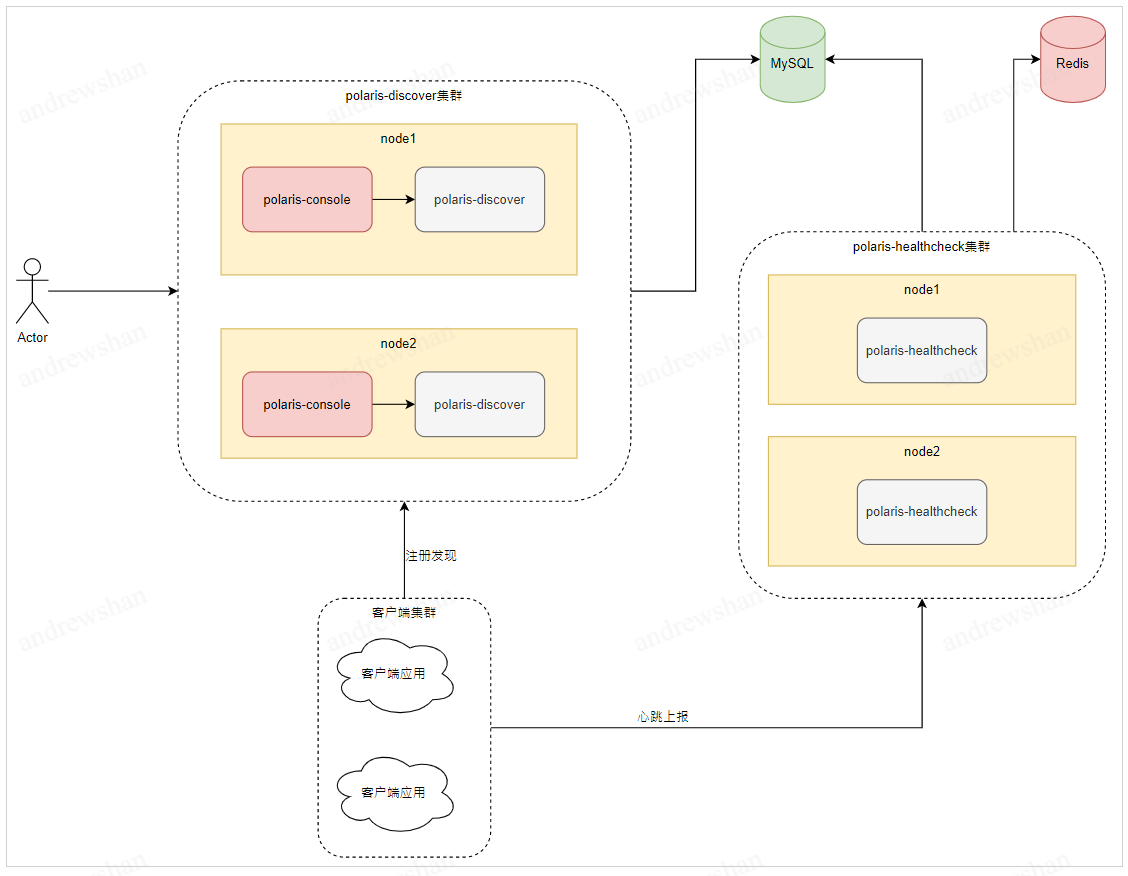
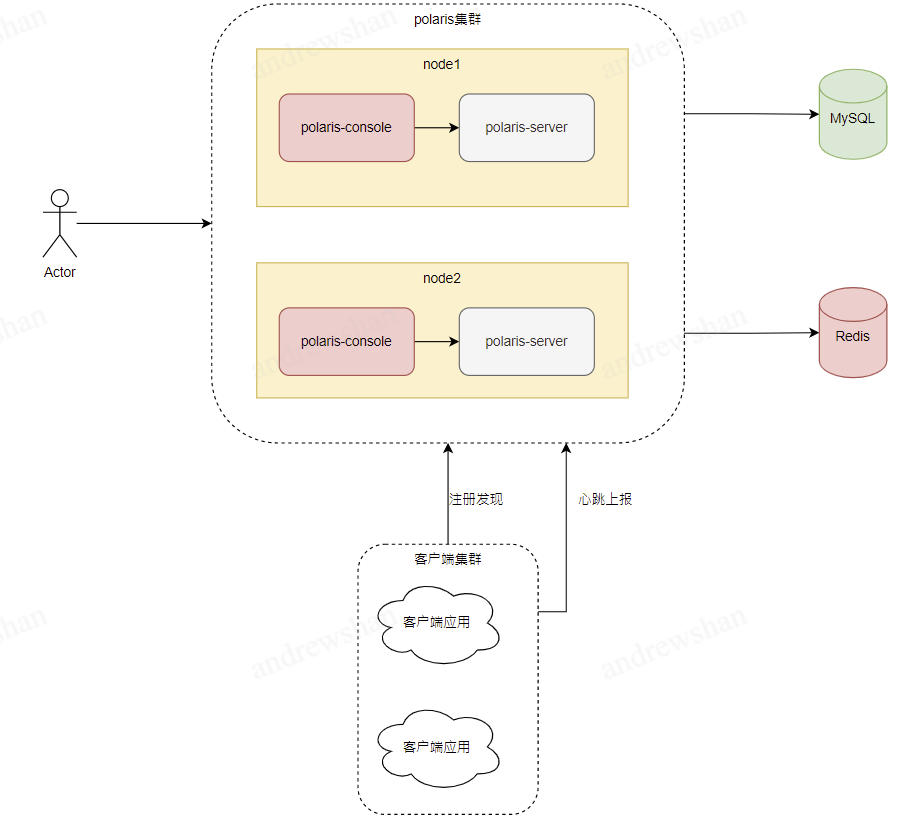
feat: add healthcheck and monitor install scripts

diff --git a/docs/zh/doc/快速入门/集群版安装.md b/docs/zh/doc/快速入门/集群版安装.md
@@ -4,9 +4,9 @@
 
 | 类型     | 组件                               | 最小生产集群 | 第三方依赖                           | 功能说明           |
 | -------- | ---------------------------------- | ------------ | ------------------------------------ | ------------------ |
-| 核心(必选)     | polaris-console,  polaris-discover | 2*VM/POD     | MySQL 5.7                            | 服务注册，服务发现 |
-| 健康检查(可选) | polaris-healthcheck                | 2*VM/POD     | Redis 5.0                            | 心跳上报           |
-| 可观察性(可选) | -                                  | 2*VM/POD     | Prometheus 2.28.0, PushGateway 1.4.1 | 客户端监控上报     |
+| 核心(必选)     | polaris-console,  polaris-discover | 2*VM/4*POD   | MySQL 5.7                            | 服务注册，服务发现 |
+| 健康检查(可选) | polaris-healthcheck                | 2*VM/4*POD   | Redis 5.0                            | 心跳上报           |
+| 可观察性(可选) | -                                  | 4*VM/8*POD   | Prometheus 2.28.0, PushGateway 1.4.1 | 客户端监控上报     |
 
 
 ## 核心功能安装
@@ -15,7 +15,7 @@
 
 ![核心组网](图片\集群版安装\核心组网.png)
 
-为保证容灾性，需要2节点（VM/POD），建议每台机器上**同时部署polaris-discover与polaris-console**。
+为保证容灾性，需要至少2节点部署，建议每台机器上**同时部署polaris-discover与polaris-console**。
 
 ### 初始数据导入
 
@@ -32,7 +32,7 @@ mysql -u $db_user -p $db_pwd -h $db_host < store/defaultStore/polaris_server.sql
 
 ### 虚拟机linux
 
-#### 安装polaris-discover
+#### 安装polaris-server
 
 - 下载软件包：在polaris的[releases](https://github.com/polarismesh/polaris/releases)上下载对应的软件包：polaris-server-release_$version.linux.$arch.zip，解压后进入polaris-server-release_$version.linux.$arch目录
 
@@ -71,7 +71,12 @@ bootstrap:
         namespace: Polaris
         protocols:
           - grpcserver
-          - httpserver    
+          - httpserver
+      - name: polaris.healthcheck
+        namespace: Polaris
+        protocols:
+          - grpcserver
+          - httpserver
 ```
 
 - 启动polaris-discover：执行tool/start.sh，执行tool/p.sh，看到以下信息代表启动成功：
@@ -93,6 +98,10 @@ bootstrap:
 
 
 
+
+
+
+
 ## 健康检查功能安装
 
 ### 集群组网
@@ -109,49 +118,12 @@ curl -XPOST -H 'Content-Type: application/json;charset=UTF-8' -d '[{"service":"p
 
 ### 虚拟机linux
 
-#### 安装polaris-healthcheck
+#### 开启健康检查功能
 
-- 下载软件包：在polaris的[releases](https://github.com/polarismesh/polaris/releases)上下载对应的软件包：polaris-server-release_$version.linux.$arch.zip，解压后进入polaris-server-release_$version.linux.$arch目录
+在步骤一安装完server后，执行以下操作可开启健康检查功能。
 
-- 配置数据库参数：修改polaris-server.yaml里面的存储配置（根节点为store），修改后的配置如下所示（##DB_USER##，##DB_PWD##，##DB_ADDR##，##DB_NAME##需替换成实际的数据库访问地址以及凭证）：
-```
-# 存储配置
-store:
-## 单机文件存储插件
-#  name: boltdbStore
-#  option:
-#    path: ./polaris.bolt
-# 数据库存储插件
-  name: defaultStore
-  option:
-    master:
-      dbType: mysql
-      dbUser: ##DB_USER##
-      dbPwd: ##DB_PWD##
-      dbAddr: ##DB_ADDR##
-      dbName: ##DB_NAME##
-      maxOpenConns: -1
-      maxIdleConns: -1
-      connMaxLifetime: 300 # 单位秒
-      txIsolationLevel: 2 #LevelReadCommitted
-```
+- 编辑配置：修改polaris-server.yaml里面的健康检查配置（根节点为naming），将open设置为true，同时需要把##REDIS_PWD##替换成实际的redis密码
 
-- 开启自动注册：修改polaris-server.yaml里面的服务自注册配置（根节点为bootstrapt），打开enable_register以及probe_address的选项，并将##DB_ADDR##替换成实际的数据库地址）
-```
-bootstrap:
-  polaris_service:
-    probe_address: ##DB_ADDR##
-    enable_register: true
-    isolated: false
-    services:
-      - name: polaris.healthcheck
-        namespace: Polaris
-        protocols:
-          - grpcserver
-          - httpserver    
-```
-
-- 配置redis密码：修改polaris-server.yaml里面的健康检查配置（根节点为naming），需要把##REDIS_PWD##替换成实际的redis密码
 ```
 naming:
   # 健康检查
@@ -166,7 +138,7 @@ naming:
     idleTimeout: 120
 ```
 
-- 启动polaris-discover：执行tool/start.sh，执行tool/p.sh，看到以下信息代表启动成功：
+- 重新启动polaris-discover：执行tool/stop.sh后，再执行tool/start.sh，执行tool/p.sh，看到以下信息代表启动成功：
 ```
 ./polaris-server start
 ```
